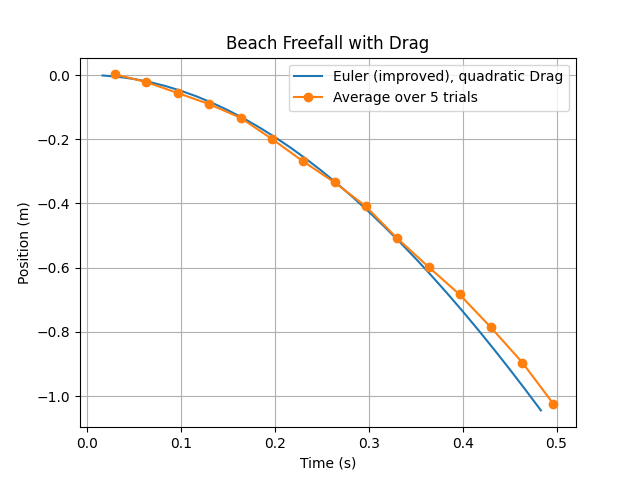
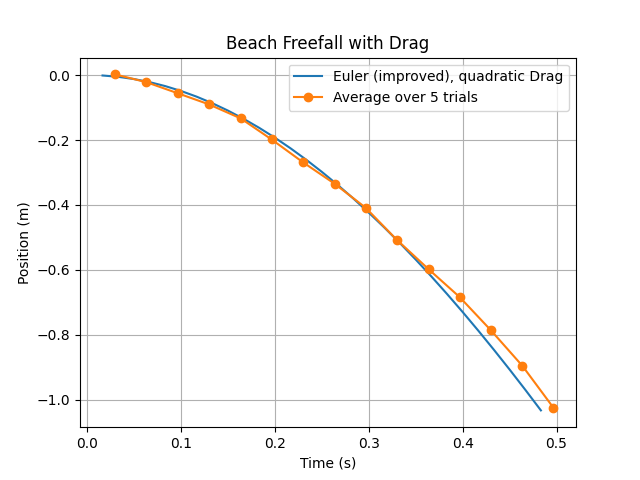
minor changes

diff --git a/freefall.py b/freefall.py
@@ -43,6 +43,9 @@ class Ball:
             # Calculate position with average position during frame
             self.pos += avvel * self.deltat
 
+        elif method == 'RK4':
+            ...
+
         return (self.pos, self.vel, self.time)
 
     def predict(self, time, dragType=0, method='euler_improved'):
@@ -58,13 +61,13 @@ def plotdata(filename, n):
     y_all = []
     t_ref = None
 
-    for i in range(1, n + 1):  # inclusive of n
+    for i in range(1, n + 1): 
         data = np.loadtxt(f'{filename}_{i}.txt', skiprows=1)
 
         t = data[:, 0]
         t -= t[0] - 0.03  # t offset
         y = data[:, 1]
-        y = (y - y[0] - 0.002)  # y offset and flip sign
+        y = -(y - y[0] - 0.002)  # y offset and flip sign
         if t_ref is None:
             t_ref = t  # use first trial's time array as the reference grid
 
@@ -80,11 +83,20 @@ def plotdata(filename, n):
 import analytical
 
 def main():
-    foam = Ball(m=0.00485, A=0.00477663773)
+    balls = [Ball(m=0.00485, A=0.00477663773),
+             Ball(m=0.075, A=0.002299788928),
+             Ball(m=0.0372, A=0.04171260073)]
+    
+    foam = balls[0]
+    rubber = balls[1]
+    beach = balls[2]
 
     # Compute quadratic solution and plot
-    out = foam.predict(.482, 2, method='euler_improved')
+    out = beach.predict(.482, 2, method='euler_improved')
     plt.plot(np.array([el[2] for el in out]), np.array([el[0] for el in out]), label="Euler (improved), quadratic Drag")
+
+    out2 = beach.predict(.482, 2, method='euler')
+    plt.plot(np.array([el[2] for el in out2]), np.array([el[0] for el in out2]), label="Euler, quadratic Drag")
 
     # Compute linear solution and plot
     # out2 = foam.predict(.482, 1, method='euler_improved')
@@ -94,7 +106,7 @@ def main():
     # plt.plot(analytical.t_vals, analytical.linear, label="Linear drag")
     # plt.plot(analytical.t_vals, analytical.quadratic, label="Quadratic drag")
     
-    balltype = 'foam' # enter type of ball in all lowercase
+    balltype = 'beach' # enter type of ball in all lowercase
     plotdata(f'data/{balltype}/{balltype.capitalize()}', 5)
 
     plt.title(f'{balltype.capitalize()} Freefall with Drag')
@@ -102,7 +114,7 @@ def main():
     plt.ylabel("Position (m)")
     plt.grid(True)
     plt.legend()
-    plt.savefig(f'Figures/{balltype}')
+    plt.savefig(f'Figures/{balltype}_2')
     plt.show()
 
 if (__name__ == "__main__"):
